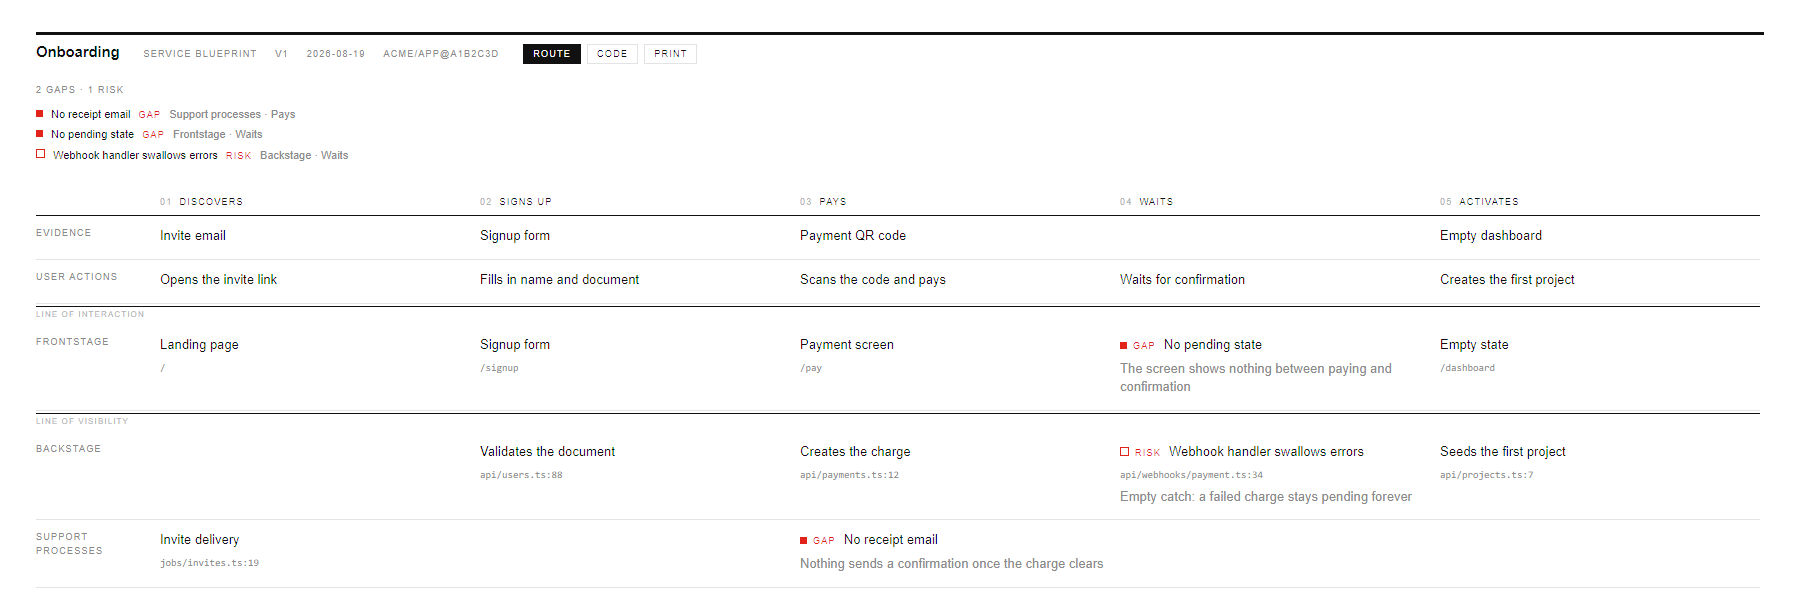
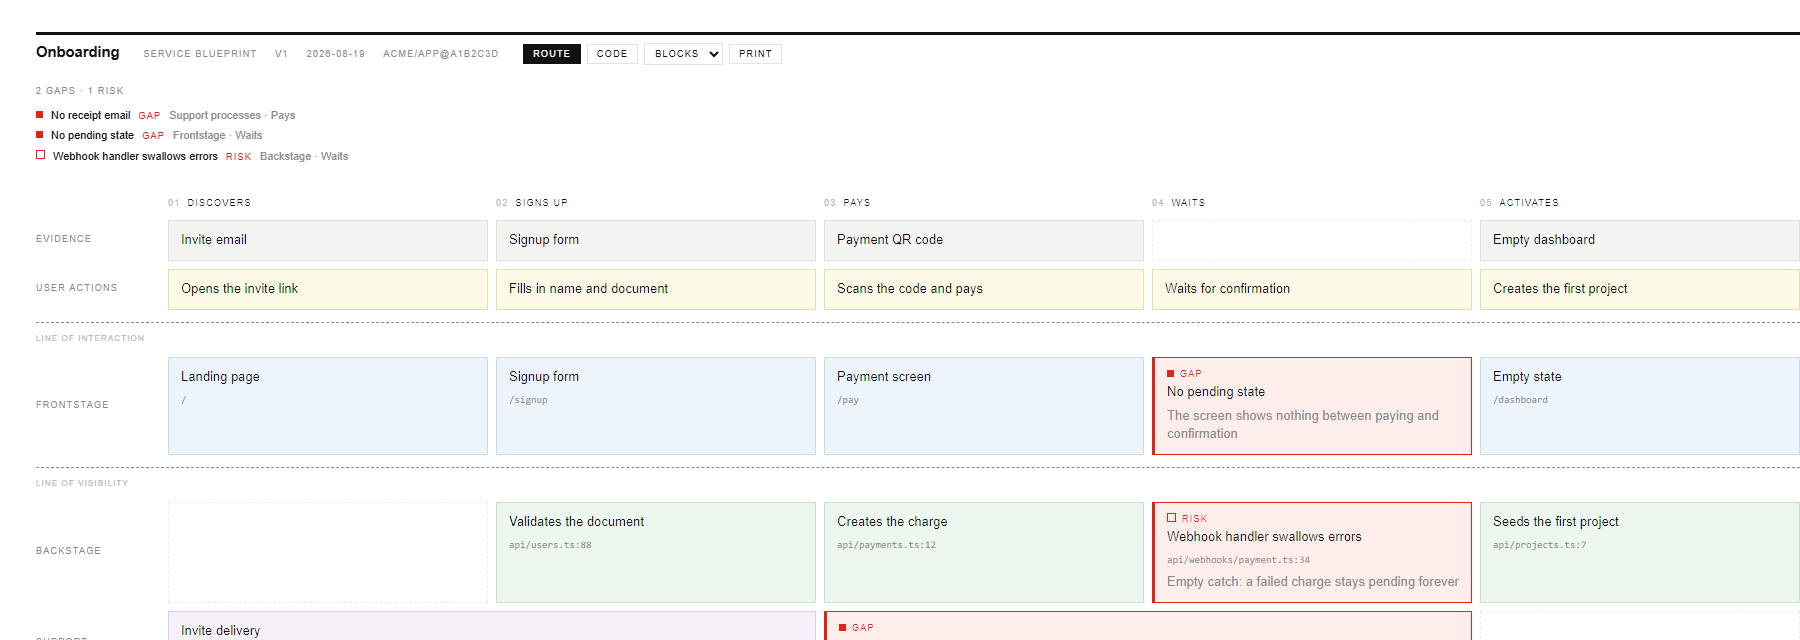
Default to the blocks layout, and true up the README
blocks is what most people mean by "service blueprint" — bordered cards, tinted
lanes, dashed lines of interaction and visibility — so it is now what an
artifact opens in when its JSON says nothing. paper and bands remain a select
away, and an artifact can still declare either.

The journey example now declares bands, so the two committed examples
demonstrate two layouts and each matches the screenshot beside it in the README.

The README had drifted in four places, all corrected here:

- it credited every claim to a verified file:line, when a verified route now
  counts too;
- both screenshots showed the old default and their alt text described rules
  that the blocks layout draws as dashed lines and borders;
- the layout list led with paper, which is no longer the default;
- the suite is 76 tests, not 74.

diff --git a/examples/journey-onboarding.html b/examples/journey-onboarding.html
@@ -364,6 +364,7 @@ body {
 <script type="application/json" id="artifact">
 {
   "type": "journey",
+  "theme": "bands",
   "title": "Onboarding",
   "subtitle": "User Journey Map",
   "meta": {
@@ -887,7 +888,7 @@ const MIN_SCALE = 0.4;
       bar.appendChild(button);
     });
 
-    bar.appendChild(renderThemeSelect(document.documentElement.dataset.theme || 'paper'));
+    bar.appendChild(renderThemeSelect(document.documentElement.dataset.theme || 'blocks'));
 
     const print = el('button', null, 'Print');
     print.type = 'button';
@@ -1155,7 +1156,7 @@ const MIN_SCALE = 0.4;
   }
 
   function renderArtifact(data, root) {
-    document.documentElement.dataset.theme = data.theme || 'paper';
+    document.documentElement.dataset.theme = data.theme || 'blocks';
     root.textContent = '';
     const sheet = el('div', 'sheet');
     const layout = buildLayout(data);

diff --git a/examples/blueprint-onboarding.html b/examples/blueprint-onboarding.html
@@ -921,7 +921,7 @@ const MIN_SCALE = 0.4;
       bar.appendChild(button);
     });
 
-    bar.appendChild(renderThemeSelect(document.documentElement.dataset.theme || 'paper'));
+    bar.appendChild(renderThemeSelect(document.documentElement.dataset.theme || 'blocks'));
 
     const print = el('button', null, 'Print');
     print.type = 'button';
@@ -1189,7 +1189,7 @@ const MIN_SCALE = 0.4;
   }
 
   function renderArtifact(data, root) {
-    document.documentElement.dataset.theme = data.theme || 'paper';
+    document.documentElement.dataset.theme = data.theme || 'blocks';
     root.textContent = '';
     const sheet = el('div', 'sheet');
     const layout = buildLayout(data);

diff --git a/template.html b/template.html
@@ -770,7 +770,7 @@ const MIN_SCALE = 0.4;
       bar.appendChild(button);
     });
 
-    bar.appendChild(renderThemeSelect(document.documentElement.dataset.theme || 'paper'));
+    bar.appendChild(renderThemeSelect(document.documentElement.dataset.theme || 'blocks'));
 
     const print = el('button', null, 'Print');
     print.type = 'button';
@@ -1038,7 +1038,7 @@ const MIN_SCALE = 0.4;
   }
 
   function renderArtifact(data, root) {
-    document.documentElement.dataset.theme = data.theme || 'paper';
+    document.documentElement.dataset.theme = data.theme || 'blocks';
     root.textContent = '';
     const sheet = el('div', 'sheet');
     const layout = buildLayout(data);

diff --git a/README.md b/README.md
@@ -2,14 +2,14 @@
 
 Turn a codebase into a Service Blueprint or a User Journey Map you can actually
 look at — a single self-contained HTML file that opens by double-click,
-offline, with every implementation claim backed by a verified `file:line` and
-every hole marked as a gap instead of smoothed over.
+offline, with every implementation claim backed by a verified route or
+`file:line`, and every hole marked as a gap instead of smoothed over.
 
 **[See it working →](https://craice.github.io/journey/)** — two live artifacts, no install.
 
 ### Service Blueprint
 
-![A Service Blueprint of an onboarding flow: five phases across, five lanes down, with the line of interaction and line of visibility drawn as full rules, two gaps and one risk marked in red.](docs/img/blueprint.png)
+![A Service Blueprint of an onboarding flow in the blocks layout: five phases across, five lanes down, each cell a bordered card tinted by lane, with dashed lines of interaction and visibility, and two gaps and one risk outlined in red.](docs/img/blueprint.png)
 
 Five phases across, five lanes down. The red cells are the point: a screen that
 was never built, a confirmation nothing sends, a handler that swallows its
@@ -17,11 +17,13 @@ errors. Each of the others carries the route or the `file:line` it came from.
 
 ### User Journey Map
 
-![A User Journey Map of the same flow: actions, an emotion sparkline dipping to a flagged low at "Waits", quotes, and opportunities.](docs/img/journey.png)
+![A User Journey Map of the same flow in the bands layout: full-width lane bands, phases under a solid header, and an emotion curve whose filled area dips to a flagged low at "Waits".](docs/img/journey.png)
 
 The same flow seen from the outside — what the person does, how it feels, what
-they say, and where the opportunity sits. The sparkline's low point is flagged,
-because the dip and the gap are the same fact told twice.
+they say, and where the opportunity sits. The curve's low point is flagged,
+because the dip and the gap are the same fact told twice. Shown here in the
+`bands` layout; the select in the toolbar switches any artifact between the
+three without regenerating it.
 
 ## Use it with a coding agent
 
@@ -53,8 +55,9 @@ Blueprint) and [`journey-onboarding.html`](examples/journey-onboarding.html)
 (a User Journey Map). Download either one and open it to see the format
 before writing your own — the blueprint shows Evidence, User actions,
 Frontstage, Backstage and Support processes lanes across a five-step
-onboarding flow; the journey shows the same flow through Actions, an emotion
-curve, Saying and Opportunities lanes.
+onboarding flow in the default `blocks` layout; the journey shows the same flow
+through Actions, an emotion curve, Saying and Opportunities lanes, and declares
+`bands` so it opens in the sectioned layout.
 
 ## What you get
 
@@ -63,9 +66,10 @@ curve, Saying and Opportunities lanes.
 - A Route / Code switch: the artifact shows each screen's route by default and
   swaps to the `file:line` behind it on demand, so the whole picture reads as a
   path through the product rather than a tour of the source tree.
-- Three layouts in every artifact — `paper` (hairline grid), `blocks` (the
-  classic bordered service blueprint) and `bands` (sectioned journey map) —
-  switchable from the toolbar without regenerating the file.
+- Three layouts in every artifact — `blocks` (the classic bordered service
+  blueprint, and the default), `paper` (a hairline grid whose structure comes
+  from rules) and `bands` (a sectioned journey map) — switchable from the
+  toolbar without regenerating the file.
 - Columns held to a readable measure, so a few phases on a wide monitor stay a
   grid rather than stretching into empty fields.
 - Print to PDF in landscape, with the interface and the sticky positioning
@@ -81,18 +85,18 @@ curve, Saying and Opportunities lanes.
 
 ## Design notes
 
-Swiss pure-grid layout by default, one accent colour, system fonts only. The
-`blocks` and `bands` layouts restate the same data in the two other
-conventions people expect, and travel inside the same file. No
-dependencies, no build step, no network access at runtime — the file that
-opens is the whole program. It prints the same grid it shows on screen, in
-landscape, without redesigning itself for paper — a grid wider than the sheet
-is clipped rather than shrunk.
+One accent colour, system fonts only, and three layouts that restate the same
+data in the conventions people already read: `blocks` by default, `paper` for a
+Swiss hairline grid, `bands` for a sectioned journey map. All three travel
+inside the same file — switching is a class flip, not a rebuild. No
+dependencies, no build step, no network access at runtime; the file that opens
+is the whole program. It prints in landscape without redesigning itself for
+paper, and a grid wider than the sheet is clipped rather than shrunk.
 
 ## Development
 
 ```bash
-node --test tests/          # 74 tests, no npm dependencies of any kind
+node --test tests/          # 76 tests, no npm dependencies of any kind
 node tools/build-examples.js  # regenerates examples/*.html from examples/src/*.json
 ```
 

diff --git a/SKILL.md b/SKILL.md
@@ -130,12 +130,13 @@ things:
 `theme` sets the layout the artifact opens in, and the reader can switch at any
 time from the toolbar. Leave it out unless you have a reason:
 
-- `paper` (default) — hairline grid, structure carried by rules. The densest of
-  the three and the one that prints closest to what the screen shows.
-- `blocks` — every cell a bordered card, tinted per lane, with dashed lines of
-  interaction and visibility. The classic service blueprint people recognise
-  from a workshop wall; the most legible when a blueprint is being read aloud
-  to a room.
+- `blocks` (default) — every cell a bordered card, tinted per lane, with dashed
+  lines of interaction and visibility. The classic service blueprint people
+  recognise from a workshop wall, and the most legible when an artifact is being
+  read aloud to a room.
+- `paper` — hairline grid, structure carried by rules rather than borders. The
+  densest of the three and the one that prints closest to what the screen
+  shows.
 - `bands` — each lane announced by a full-width band, phases under a solid
   header, the emotion curve filled. Suits a journey being presented to
   stakeholders more than a blueprint being worked on.

diff --git a/SCHEMA.md b/SCHEMA.md
@@ -29,7 +29,7 @@ generating this block, by hand or by tool, must escape any occurrence as `<\/scr
 |---|---|---|---|
 | `type` | `"blueprint" \| "journey"` | yes | Must be one of these two values. |
 | `title` | string | yes | Must be non-empty (after trimming). Used as the page `<h1>` and browser tab title. |
-| `theme` | string | no | `paper` (default), `blocks` or `bands`. Sets which layout the artifact opens in; the reader can switch with the toolbar's select, and that choice is not saved back to the file. |
+| `theme` | string | no | `blocks` (default), `paper` or `bands`. Sets which layout the artifact opens in; the reader can switch with the toolbar's select, and that choice is not saved back to the file. |
 | `subtitle` | string | no | Shown next to the title in the masthead; falls back to "Journey" in the tab title if absent. |
 | `meta.version` | string | no | Shown in the masthead if present. Not validated. |
 | `meta.date` | string | no | Shown in the masthead if present. Not validated. |
